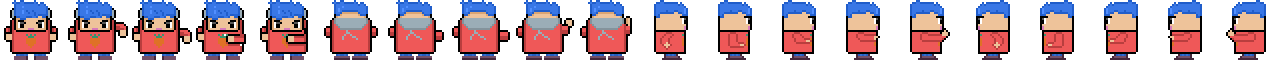
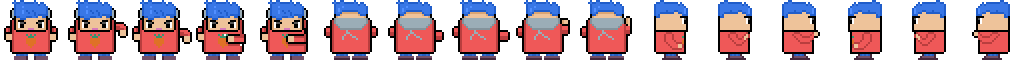
LOVE MYSELF

diff --git a/scripts/loading.js b/scripts/loading.js
@@ -6,13 +6,15 @@ function loadImages(scene)
     scene.load.spritesheet('attacking_pic', './assets/as_attacking.png', {frameWidth: 64, frameHeight: 64});
     scene.load.spritesheet('vendor', './assets/vendor.png', {frameWidth: 64, frameHeight: 64});
 	scene.load.spritesheet('greenmonster','./assets/MONSTER/greenmonster.png', {frameWidth: 64, frameHeight: 64});
-	scene.load.spritesheet('testchar', './assets/testcharx2.png', {frameWidth: 64, frameHeight: 106});
+	scene.load.spritesheet('newslime', './assets/MONSTER/newSlime.png',{frameWidth: 64, frameHeight: 50});
 	scene.load.image('heart', './assets/hb.png');
 	scene.load.image('testchar2', './assets/test.png');
     scene.load.image('shuriken', './assets/shuriken.png');
     scene.load.image('redmonster', './assets/MONSTER/red_monster.png');
     scene.load.image('tiles', './assets/tile/tileset.png');
     scene.load.tilemapCSV('map', './assets/tile/map.csv');
+	scene.load.image('testmonster', './assets/MONSTER/newSlime.png');
+	scene.load.image('csvc', './assets/csvc.png');
 }
 
 function loadAnimation(scene)
@@ -80,13 +82,13 @@ function loadAnimation(scene)
         });
     scene.anims.create({
         key: 'attack_left',
-        frames: scene.anims.generateFrameNumbers('attacking_pic', { start: 15, end: 19 }),
+        frames: scene.anims.generateFrameNumbers('attacking_pic', { start: 13, end: 15 }),
         frameRate: 11,
         repeat: 0
         });
     scene.anims.create({
         key: 'attack_right',
-        frames: scene.anims.generateFrameNumbers('attacking_pic', { start: 10, end: 14 }),
+        frames: scene.anims.generateFrameNumbers('attacking_pic', { start: 10, end: 12 }),
         frameRate: 11,
         repeat: 0
         });
@@ -114,6 +116,12 @@ function loadAnimation(scene)
         frameRate: 3,
         repeat: -1
         });
+	 scene.anims.create({
+        key: 'newslime-idle',
+        frames: scene.anims.generateFrameNumbers('newslime', { start: 0, end:2}),
+        frameRate: 3,
+        repeat: -1
+        });
 }
 
 function loadMap(scene)
@@ -127,8 +135,9 @@ function loadMap(scene)
 function loadNPC(NPClist, scene)
 {
 	// NPC를 로드합니다
-	NPClist.push(scene.physics.add.sprite(600,600, 'rabbit'));
+	NPClist.push(scene.physics.add.sprite(600, 600, 'rabbit'));
 	NPClist.push(scene.physics.add.sprite(300, 600, 'vendor'));
+	NPClist.push(scene.physics.add.sprite(750, 600, 'csvc'));
 	
 	NPClist[1].setInteractive();
     NPClist[1].on('pointerdown', function(){dialogue("vendor")});
@@ -141,9 +150,14 @@ function loadNPC(NPClist, scene)
 
 function loadMonster(Monlist, scene)
 {
+	var texture;
 	for(var i = 0; i<5; i++)
 	{
-		Monlist.push(new Monster(70*(i+3), 70*(i+3), scene));
+		if(i%2==0)
+			texture = 'greenmonster';
+		else
+			texture = 'newslime';
+		Monlist.push(new Monster(70*(i+3), 70*(i+3), scene, texture));
 		scene.physics.add.collider(scene.player.body, Monlist[i].body, function()
 								   {
 									if(scene.health <=0)
@@ -158,8 +172,8 @@ function loadMonster(Monlist, scene)
 									}
 								   });
 		Monlist[i].body.setVelocity(0, 0);
+		Monlist[i].body.setOrigin(0, 0);
 	}
-	
 }
 
 function dialogue(name)

diff --git a/test.html b/test.html
@@ -29,11 +29,11 @@
 	
 	class Monster
 	{
-		constructor(x, y, scene)
+		constructor(x, y, scene, texture)
 		{
-			this.body = scene.physics.add.sprite(x,y, 'character_anim');
+			this.body = scene.physics.add.sprite(x,y, texture);
 			this.body.setCollideWorldBounds(true); 
-			this.body.anims.play('greenmonster-idle', true);
+			this.body.anims.play(texture+'-idle', true);
 			this.health = 100;
 			this.status = 1;
 		}

diff --git a/scripts/statemachine.js b/scripts/statemachine.js
@@ -155,8 +155,8 @@ class SwingState extends State
 		{
 			height = 3;
 			width = 64;
-			x = hero.body.x-((width-hero.width)/2);
-			y = hero.body.y+hero.height;
+			x = hero.body.x-((width-hero.body.width)/2);
+			y = hero.body.y+hero.body.height;
 		}
 		hero.body.anims.play('attack_'+hero.direction);
 		HitBox = scene.physics.add.sprite(x,y, null);
